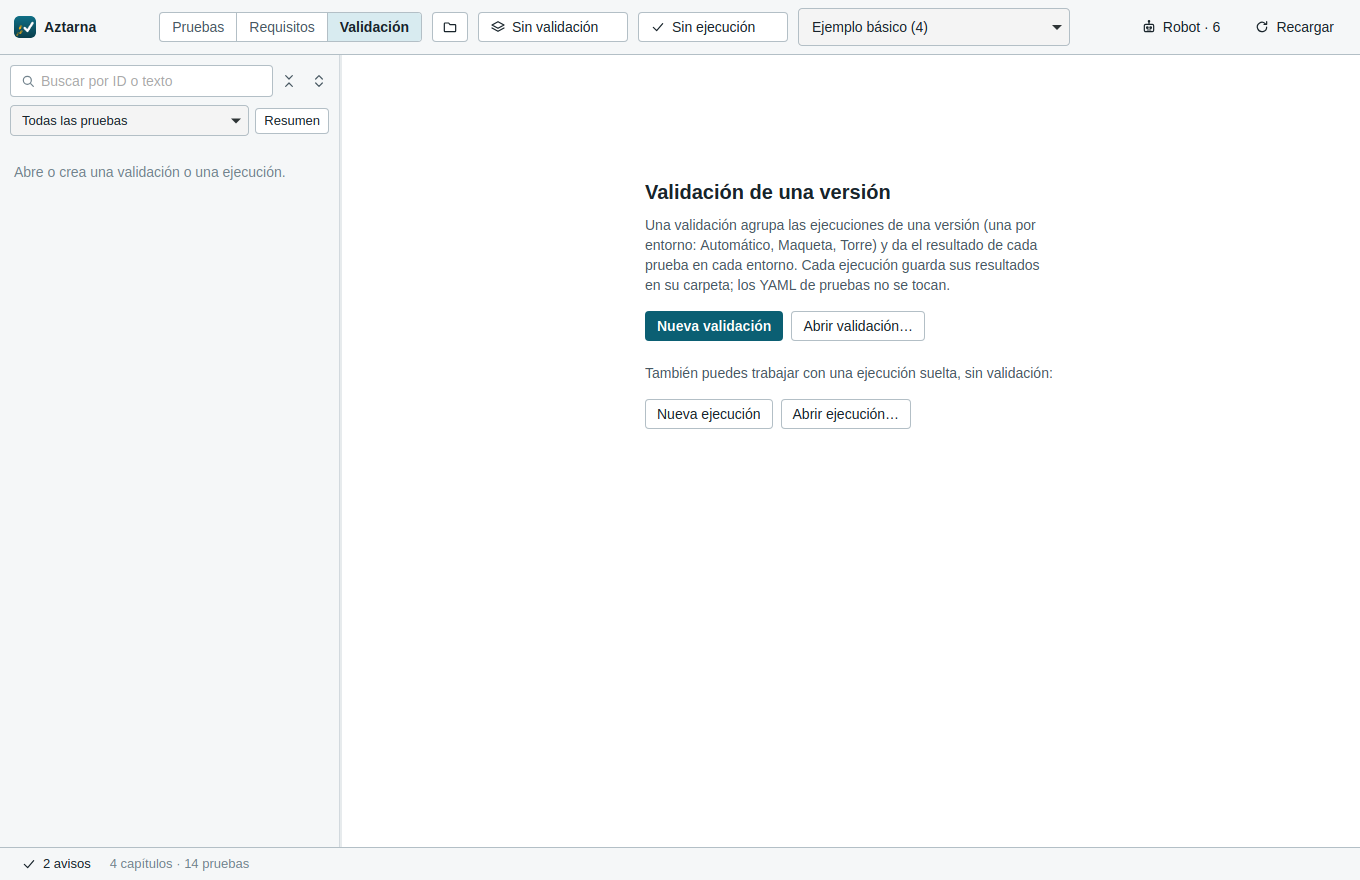
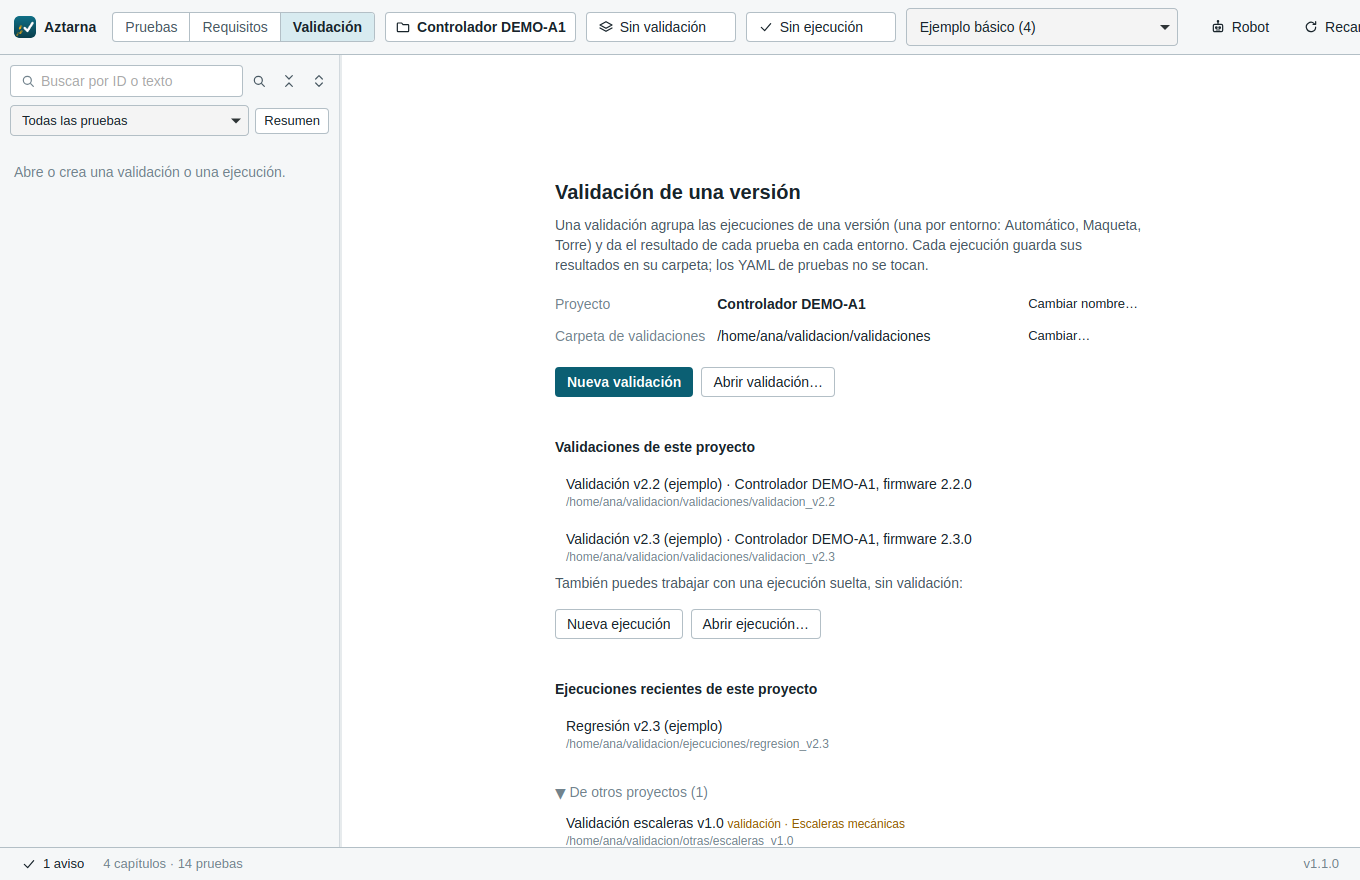
Manual, README, CHANGELOG y capturas del proyecto en Validación; versión 1.1.0
- Manual: 6.0 «El proyecto y sus validaciones» (portada, carpeta de
  validaciones, aviso de otro proyecto), barra con el nombre del proyecto,
  cómo se organiza el equipo y dónde se guardan nombre y carpeta.
- Capturas nuevas (57) y rehechas (01, 08, 35).
- Los ejemplos tienen nombre de proyecto (Controlador DEMO-A1).
- README y CHANGELOG 1.1.0 (con el aviso para quien siga en la 1.0.0).
- __version__ 1.1.0.

diff --git a/tests/test_proyecto.py b/tests/test_proyecto.py
@@ -31,8 +31,11 @@ class Base(unittest.TestCase):
         self.addCleanup(esquema.configurar, None)
 
     def proyecto_nuevo(self, nombre):
+        """Una copia de los ejemplos sin nombre de proyecto (se llama como su carpeta)."""
         destino = self.tmp / nombre
         shutil.copytree(EJEMPLOS, destino)
+        aztarna = destino / "aztarna.yaml"
+        aztarna.write_text(aztarna.read_text(encoding="utf-8").replace("proyecto:\n  nombre: Controlador DEMO-A1\n", ""), encoding="utf-8")
         return destino
 
 

diff --git a/app/__init__.py b/app/__init__.py
@@ -4,7 +4,7 @@
 # La versión sigue el versionado semántico; cada versión publicada lleva su etiqueta de Git (v0.8.0…)
 # y su entrada en CHANGELOG.md.
 NOMBRE = "Aztarna"
-__version__ = "1.0.0"
+__version__ = "1.1.0"
 
 
 def firma() -> str:

diff --git a/MANUAL.md b/MANUAL.md
@@ -73,7 +73,7 @@ de la ejecución.
 |---|---|
 | El programa (`Aztarna.exe`) | En la carpeta de red donde se publica; avisa cuando hay una versión nueva. |
 | Pruebas, requisitos y `aztarna.yaml` | En un **repositorio de Git** del equipo. Cada persona trabaja con su copia (clon) en su PC. |
-| Ejecuciones y validaciones | En una **carpeta compartida**, por ejemplo `\\servidor\pruebas\validaciones\v2.3\`, sin Git. |
+| Ejecuciones y validaciones | En una **carpeta compartida**, por ejemplo `\\servidor\pruebas\DEMO-A1\validaciones\`, sin Git: la **carpeta de validaciones del proyecto** (ver 6.0). |
 
 Las pruebas van en Git porque cambian poco a poco y conviene ver quién cambió
 qué. Las ejecuciones no: son registros que se rellenan una vez, con evidencias
@@ -101,6 +101,10 @@ sin commit.
 
 Puedes abrir la ejecución de otra persona aunque tenga sus pruebas en otra
 ruta: el editor usa tu copia de las pruebas (ver 6.3).
+
+Cada ejecución y cada validación sabe **de qué proyecto es**. El nombre del
+proyecto se ve en la barra superior, junto a la carpeta de pruebas, y en el
+modo Validación solo se ofrece lo de ese proyecto (ver 6.0).
 
 ---
 
@@ -153,8 +157,9 @@ en Ubuntu, *Configuración → Apariencia*.
 
 ![Ventana del editor en modo Pruebas](docs/manual/01_ventana_edicion.png)
 
-- **Barra superior:** modo (Pruebas / Requisitos / Validación), carpeta de
-  pruebas, en el modo Validación la validación y la ejecución abiertas,
+- **Barra superior:** modo (Pruebas / Requisitos / Validación), el **nombre
+  del proyecto** y su carpeta de pruebas, en el modo Validación la validación y
+  la ejecución abiertas (en ámbar si son de otro proyecto),
   capítulo, *Robot* (configuración de Robot Framework y número de pruebas
   automatizadas), *Recargar* (vuelve a leer los archivos del disco) y el
   menú **⋯** (ver abajo).
@@ -566,6 +571,36 @@ El trabajo habitual tiene dos pasos:
 2. **Alguien une las ejecuciones** de todos en la **validación de la versión**
    y genera el informe final (6.10).
 
+### 6.0 El proyecto y sus validaciones
+
+Al entrar en **Validación** se vuelve a abrir la última validación (o
+ejecución) que usaste, **si es del proyecto abierto**. Si no, aparece la
+portada:
+
+![Modo Validación sin nada abierto](docs/manual/08_ejecucion_inicio.png)
+
+- **Proyecto**: su nombre (*Cambiar nombre…*) y su **carpeta de
+  validaciones** (*Elegir…*): la carpeta compartida donde el equipo deja las
+  validaciones y las ejecuciones del proyecto. Las nuevas se proponen allí.
+  Los dos se guardan en el `aztarna.yaml` del proyecto: súbelo a Git para que
+  los usen los demás.
+- **Validaciones de este proyecto**: las que has usado y todas las que hay en
+  su carpeta de validaciones. **Ejecuciones recientes de este proyecto**,
+  debajo.
+- **De otros proyectos** (plegado): las recientes que son de otro proyecto.
+
+Si abres una validación o una ejecución de **otro proyecto**, el editor avisa
+antes, porque al abrirla cambia a sus pruebas:
+
+![Validación de otro proyecto](docs/manual/57_otro_proyecto.png)
+
+Si cambias de carpeta de pruebas con una validación o una ejecución de otro
+proyecto abierta, se deja de trabajar con ella (no se borra nada) y se avisa.
+
+Cada ejecución y validación nueva apunta su proyecto. Las de antes se
+reconocen por su carpeta de pruebas (o porque tus pruebas tienen todas las
+suyas) y se les apunta la primera vez que las abres.
+
 ### 6.1 Los resultados posibles
 
 | Resultado | Significa | Tecla |
@@ -580,10 +615,8 @@ El porcentaje de OK se calcula sobre las pruebas que aplican.
 
 ### 6.2 Crear una ejecución
 
-![Modo Validación sin nada abierto](docs/manual/08_ejecucion_inicio.png)
-
-Pasa a **Validación** y pulsa **Nueva ejecución** (o el botón de la ejecución,
-✓, en la barra superior).
+Pasa a **Validación** y pulsa **Nueva ejecución** (en la portada, ver 6.0, o
+en el botón de la ejecución, ✓, de la barra superior).
 
 ![Nueva ejecución](docs/manual/09_nueva_ejecucion.png)
 
@@ -604,10 +637,10 @@ prueba, entra con **Resincronizar** (en el resumen).
 
 ### 6.3 Abrir una ejecución
 
-Botón de la ejecución → **Abrir ejecución…** o una de las **recientes**. Al
-entrar en el modo Validación se abre la última que usaste (o la última
-validación). Al abrir una
-ejecución se abre también su carpeta de pruebas.
+Botón de la ejecución → **Abrir ejecución…** o una de las **recientes** (las
+de otro proyecto llevan *otro proyecto*). Al entrar en el modo Validación se
+abre la última que usaste de este proyecto (ver 6.0). Al abrir una ejecución
+se abre también su carpeta de pruebas.
 
 Si la ejecución es de otra persona y cada una tiene las pruebas en su PC (por
 ejemplo, cada una con su copia del repositorio), el editor usa la carpeta de
@@ -773,10 +806,11 @@ observaciones, incidencia, evidencias e intentos anteriores.
 
 ![Validación de una versión](docs/manual/32_validacion_panel.png)
 
-**Crear la validación.** Botón de la validación (el de las capas, en la barra
-superior) → **Nueva validación…**: nombre, versión y **qué pruebas hay que
-pasar** (las mismas fichas que al crear una ejecución). Después eliges dónde
-guardarla.
+**Crear la validación.** En la portada (ver 6.0) o con el botón de la
+validación (el de las capas, en la barra superior) → **Nueva validación…**:
+nombre, versión y **qué pruebas hay que pasar** (las mismas fichas que al
+crear una ejecución). Después eliges dónde guardarla (se propone la carpeta
+de validaciones del proyecto).
 
 **Añadir las ejecuciones.** **Añadir ejecuciones…** y elige la carpeta de una
 ejecución o una carpeta que contenga varias (por ejemplo, la compartida donde
@@ -1129,6 +1163,20 @@ a la de pruebas. Las ejecuciones, en la carpeta que elegiste al crearlas
 (`ejecucion.yaml`, `resultados.yaml`, `evidencias/` y, al cerrarla,
 `pruebas_congeladas/`). Las validaciones, en la suya (`validacion.yaml`, que
 solo apunta a sus ejecuciones). El editor no guarda nada en otro sitio.
+
+**¿Dónde se guardan el nombre del proyecto y su carpeta de validaciones?**
+En el `aztarna.yaml` del proyecto, en `proyecto:` (también se pueden escribir
+a mano):
+
+```yaml
+proyecto:
+  nombre: Controlador DEMO-A1
+  validaciones: \\servidor\pruebas\DEMO-A1\validaciones
+```
+
+Si las pruebas están en Git, el editor sabe que dos copias del repositorio son
+el mismo proyecto sin escribir nada más. Si no, la primera vez que creas una
+ejecución o una validación añade un `id:` a `proyecto:`; no lo cambies.
 
 **¿De dónde salen las opciones de Maniobra y Entorno?**
 Del archivo `aztarna.yaml` de la carpeta del proyecto (junto a `pruebas` y

diff --git a/README.md b/README.md
@@ -63,7 +63,7 @@ herramientas.py` las lista y `<orden> --help` explica sus opciones):
 
 ```text
 proyecto/
-├── aztarna.yaml   opciones de maniobra y entorno del proyecto (opcional)
+├── aztarna.yaml   nombre y carpeta de validaciones del proyecto, y opciones de maniobra y entorno (opcional)
 ├── importacion.yaml  cómo se importan sus Word y Excel (lo escribe el asistente; opcional)
 ├── pruebas/       indice.yaml, un YAML por capítulo, imagenes/ y formato.yaml
 └── requisitos/    lo mismo, y revisiones.yaml (requisitos cambiados)
@@ -92,6 +92,13 @@ Validación v2.3/
   pruebas están en Git, cada ejecución guarda el commit y la etiqueta al
   crearla y al cerrarla (`git` y `git_cierre`, `app/git_pruebas.py`). La
   validación avisa si sus ejecuciones usan versiones distintas.
+- Cada ejecución y validación guarda **de qué proyecto es** (`proyecto:` con
+  `id` y `nombre`, `app/proyecto.py`). El identificador sale de Git (el primer
+  commit del repositorio y la subcarpeta del proyecto, igual en todos los
+  clones) o, sin Git, se genera y se escribe en `aztarna.yaml`. En el modo
+  Validación solo se ofrece lo del proyecto abierto; abrir lo de otro pide
+  confirmación. `aztarna.yaml` puede indicar el `nombre` del proyecto y su
+  carpeta de `validaciones` (donde se crean y se buscan).
 - Cada carpeta indica la versión del formato de sus datos (`formato.yaml`, o la
   clave `formato` en `ejecucion.yaml` y `validacion.yaml`; `app/formato.py`).
   Una copia antigua del programa abre unos datos más nuevos, pero no los guarda.

diff --git a/CHANGELOG.md b/CHANGELOG.md
@@ -24,8 +24,29 @@ Importar poco a poco, también desde Excel:
   elegido al importar se guarda en el proyecto, para que todo el equipo
   importe igual sin volver a elegir los campos. Se puede editar a mano.
 
+Proyecto, validaciones y ejecuciones:
+
+- **Cada ejecución y validación sabe de qué proyecto es.** El identificador del
+  proyecto sale de Git (igual en todos los clones) o se guarda en su
+  `aztarna.yaml`; las de antes se reconocen por sus pruebas y se les apunta al
+  abrirlas.
+- Al entrar en **Validación** solo se reabre la última validación o ejecución
+  **del proyecto abierto**. Portada con el proyecto, su **carpeta de
+  validaciones** (donde se crean y se buscan), sus validaciones y ejecuciones,
+  y las de otros proyectos aparte.
+- **Abrir una de otro proyecto avisa antes** (al abrirla cambian las pruebas).
+  Al cambiar de carpeta de pruebas se deja la de otro proyecto que estuviera
+  abierta. Los menús de recientes marcan las de otros proyectos.
+- El **nombre del proyecto** se ve en la barra superior, también en
+  Validación; se cambia desde la portada (`proyecto: nombre:` en
+  `aztarna.yaml`).
+
 Necesita `openpyxl` (en `requirements.txt`). Sin cambios en el formato de los
 datos (sigue el 1).
+
+**Al actualizar:** la 1.0.0 no abre un proyecto cuyo `aztarna.yaml` tenga
+`proyecto:` (el nombre o la carpeta de validaciones): que todo el equipo pase
+a la 1.1.0 antes de ponerlos.
 
 ## 1.0.0
 
